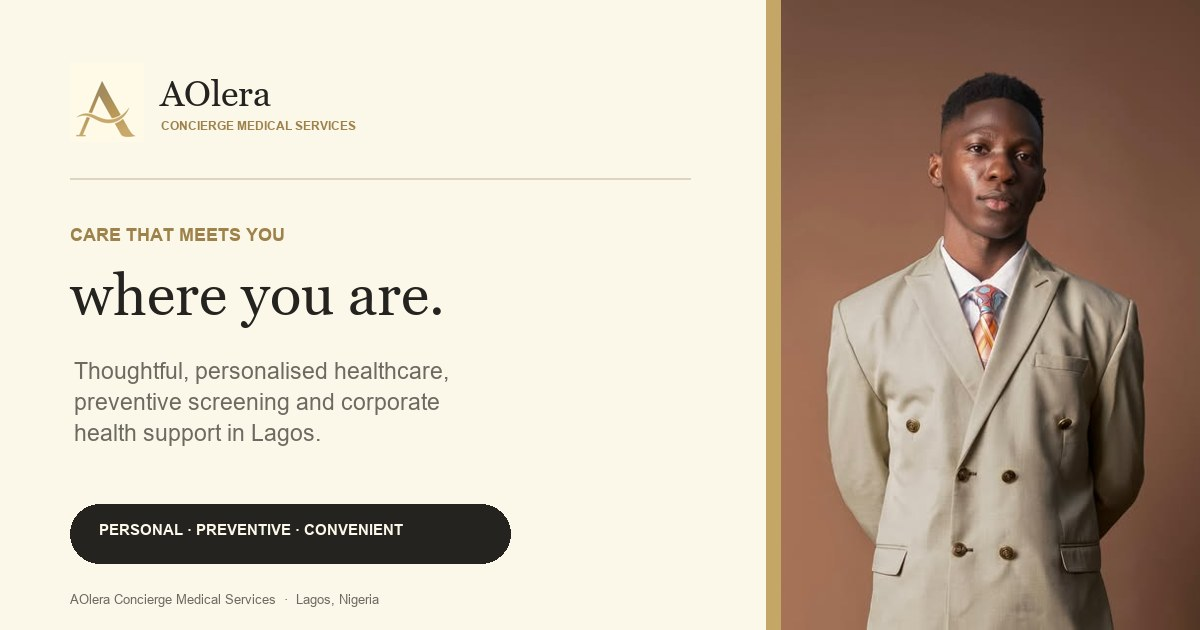
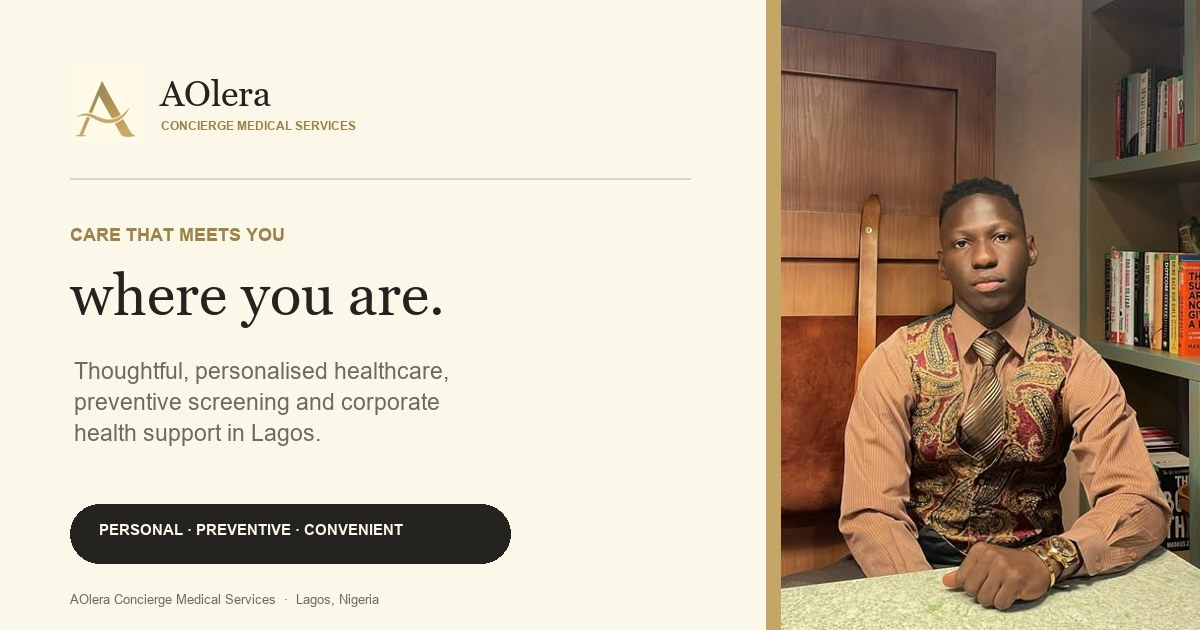
Use a second founder portrait in the hero

Changed region(s): [[0.6475, 0.0, 1.0, 1.0], [0.7092, 0.0302, 0.74, 0.0603], [0.6475, 0.0302, 0.6783, 0.0603]]

diff --git a/index.html b/index.html
@@ -37,7 +37,7 @@
     "description": "Personal medical consultations, preventive screening and corporate health support in Lagos, Nigeria."
   }
   </script>
-  <link rel="preload" as="image" href="assets/founder-suit.jpg" fetchpriority="high">
+  <link rel="preload" as="image" href="assets/founder-seated.jpg" fetchpriority="high">
   <link rel="stylesheet" href="styles.css">
   <script src="script.js" defer></script>
 </head>
@@ -63,7 +63,7 @@
           <div class="hero-actions"><a class="button button-dark" href="https://wa.me/2347026428716?text=Hello%20AOlera%2C%20I%E2%80%99d%20like%20to%20request%20an%20appointment.%20Preferred%20appointment%20type%3A%20%5Bconsultation%2Fhome%20visit%2Fphone%5D.%20Preferred%20date%20and%20time%3A%20%5Badd%5D.%20Area%3A%20%5Badd%5D." target="_blank" rel="noopener noreferrer">Request an appointment <span aria-hidden="true">↗</span></a><a class="text-link" href="#services">View services</a></div>
           
         </div>
-        <div class="hero-visual"><img src="assets/founder-suit.jpg" alt="Dr Oladipupo A. Olalekan, founder of AOlera, wearing a tan suit" width="480" height="640" fetchpriority="high"><div class="image-note"><span class="note-icon" aria-hidden="true"><svg viewBox="0 0 40 40"><path d="M12 6v9a8 8 0 0 0 16 0V6M12 10H9a3 3 0 0 1-3-3V5m22 5h3a3 3 0 0 0 3-3V5M20 23v3a8 8 0 0 0 8 8h1"/><circle cx="31" cy="34" r="3"/></svg></span><span><strong>AOlera appointments</strong><small>In person · At home · By phone</small></span></div></div>
+        <div class="hero-visual"><img src="assets/founder-seated.jpg" alt="Dr Oladipupo A. Olalekan, founder of AOlera, in a patterned waistcoat" width="512" height="640" fetchpriority="high"><div class="image-note"><span class="note-icon" aria-hidden="true"><svg viewBox="0 0 40 40"><path d="M12 6v9a8 8 0 0 0 16 0V6M12 10H9a3 3 0 0 1-3-3V5m22 5h3a3 3 0 0 0 3-3V5M20 23v3a8 8 0 0 0 8 8h1"/><circle cx="31" cy="34" r="3"/></svg></span><span><strong>AOlera appointments</strong><small>In person · At home · By phone</small></span></div></div>
       </div>
     </section>
 

diff --git a/README.md b/README.md
@@ -1,6 +1,6 @@
 # AOlera Concierge Medical Services website
 
-Responsive, lightweight static site built from the supplied AOlera brand and service artwork. The hero and founder section use the supplied close-cropped suit portrait; the corporate-health section is text-led until AOlera provides original workplace photography. Service and screening sections use medical line icons.
+Responsive, lightweight static site built from the supplied AOlera brand and service artwork. The hero uses a seated portrait from Dr Majid’s public Instagram post; the founder section keeps the close-cropped suit portrait. The corporate-health section is text-led until AOlera provides original workplace photography. Service and screening sections use medical line icons.
 
 The page includes Open Graph and large-image Twitter card metadata with a 1200 × 630 branded preview. These point to the live GitHub Pages URL; update the canonical URL, `og:url`, `og:image`, and `twitter:image` if AOlera later uses a custom domain. Social platforms need a public HTTPS site to fetch and cache the preview.
 
